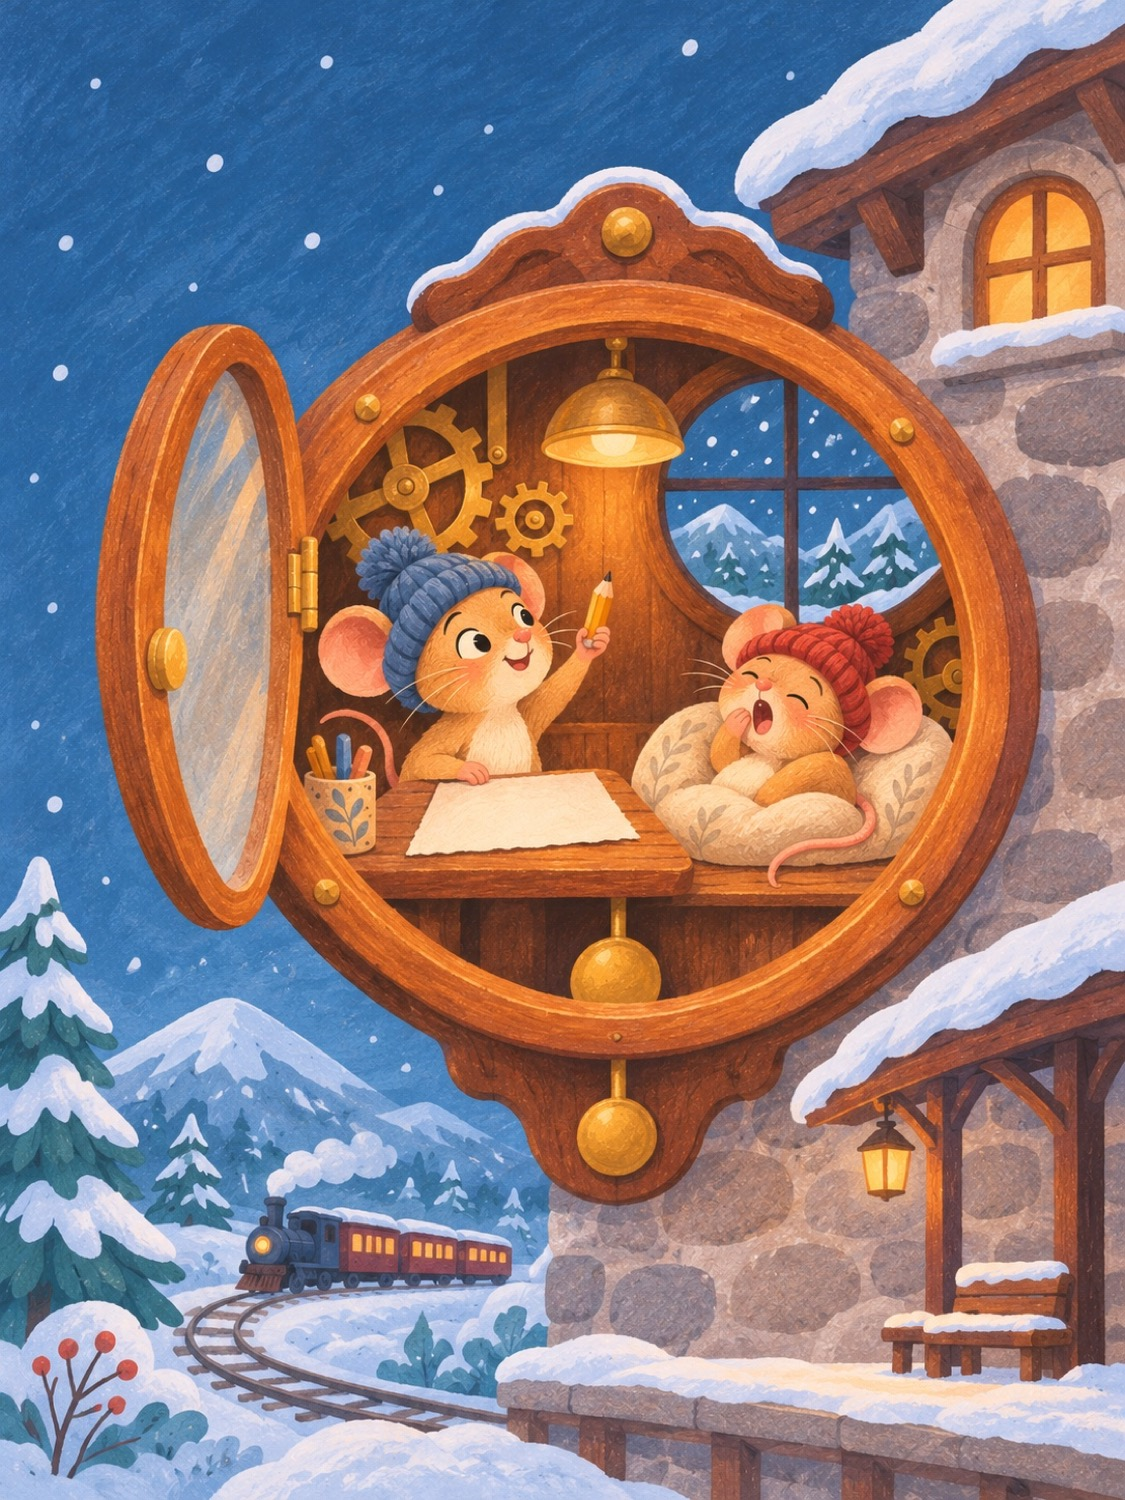
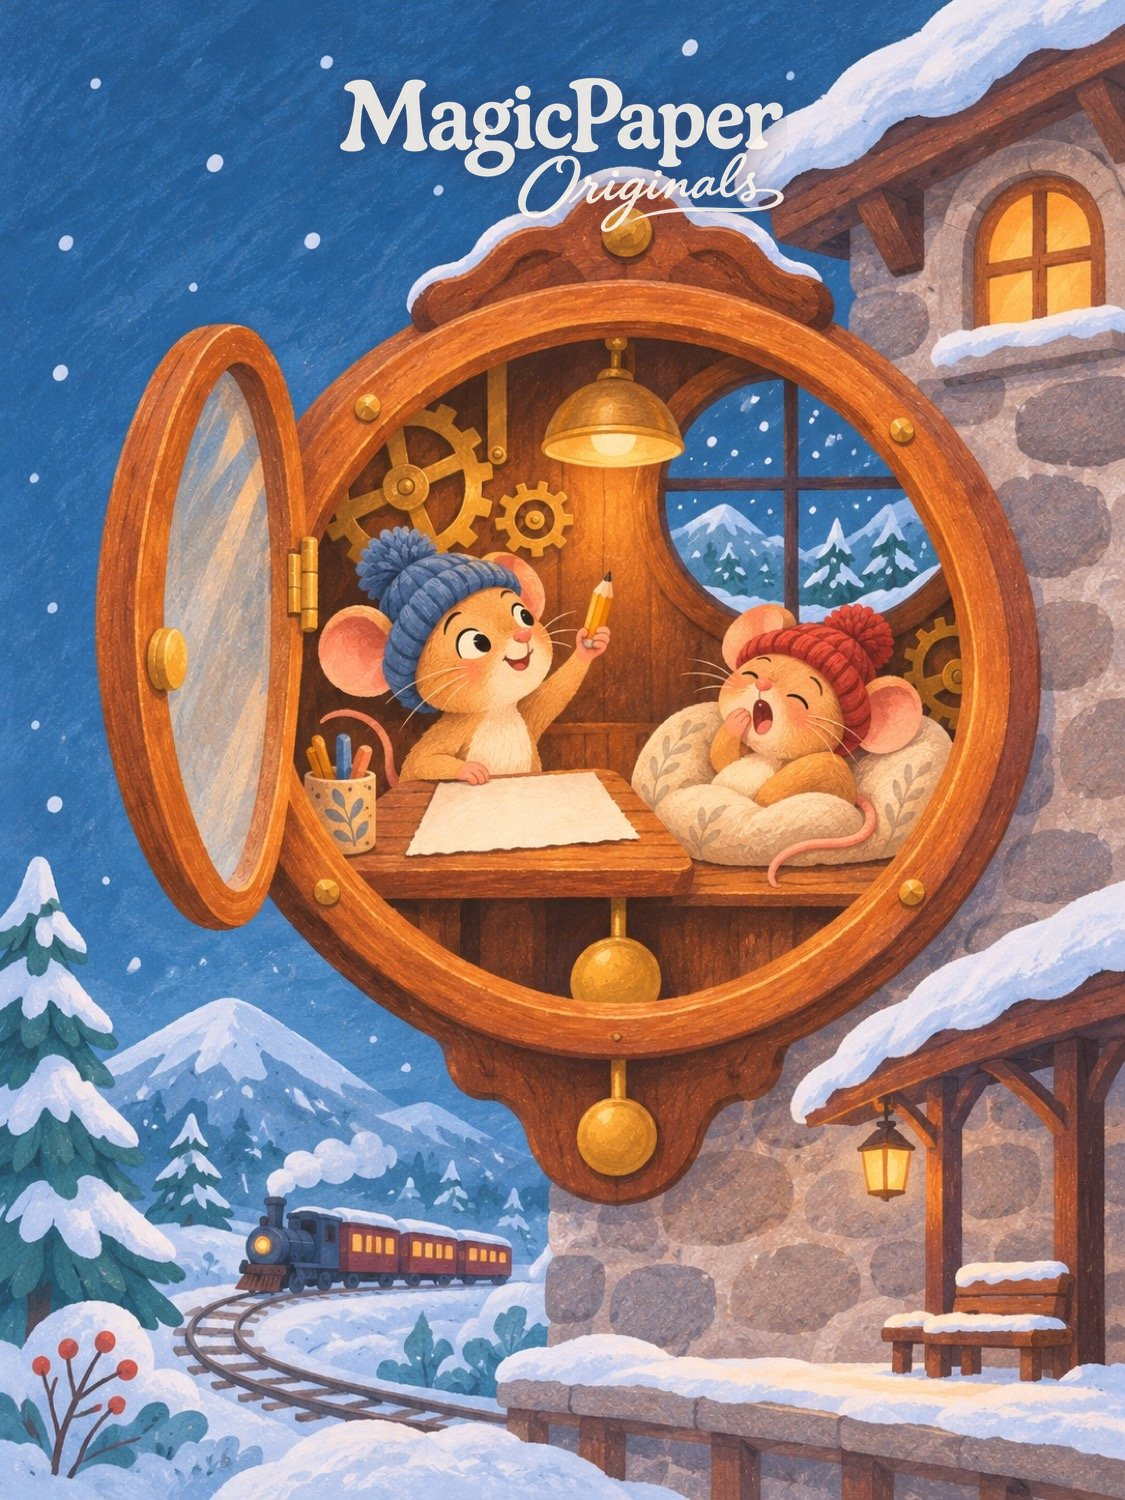
Birleştirme sonrası: yeni Saatin İçindeki Ninni kapağına Originals logosu, günlük

Changed region(s): [[0.3111, 0.0307, 0.7156, 0.1533]]

diff --git a/design-handoff/reference/DEMO_CHANGELOG.md b/design-handoff/reference/DEMO_CHANGELOG.md
@@ -133,6 +133,14 @@ Bu dosya, MagicPaper Kids demo canvas'ının hafızası. Kaynak koddaki CLAUDE.m
 
 ## Değişiklik günlüğü
 
+### 2026-11-21 · main, commit bu kayıtla · anlati-provenance, evren-7-yetkiler ve codex/design-system-catalog main'e birleşti
+- Birleşenler (Batuhan'ın isteğiyle, sırayla, `--no-ff`): `anlati-provenance` (71d4893: sayfa kaynak izi, Anlatı planı A0-A8, katmanlı sayfa resmi kararı, pilot çizim listesi), `evren-7-yetkiler` (7fc4231: aynı plan belgelerinin eski kopyaları), `codex/design-system-catalog` (bbbc522: yayımlanmış Original'lara sayfa çizimleri, incelenmiş çan görseli, görsel kaynak denetimi).
+- Çakışma çözümü: `ANLATI_PLANI.md`'de anlati-provenance'ın yeni sürümü kaldı (evren-7'deki A0/A1 öncesi hâli). codex dalı `c742ea7`'yi yama olarak almıştı; çakışan 20 dosyanın (StoryPageProvenance, 18 notice_anomaly şablonu, VisualMeaningTests, GORSEL_ANLAM_SOZLESMESI) codex sürümü `c742ea7` ile birebir aynıydı, bu yüzden anlati-provenance'ın ilerlemiş sürümü (`visualReview: "reviewed"`) kaldı. Günlükte iki tarafın kayıtları tarihe göre birleşti, hiçbiri silinmedi.
+- codex dalının yeni "Saatin İçindeki Ninni" kapağı logosuzdu; 19 Kasım kararına göre Originals logosu `stamp_originals_logo.py` ile basıldı (published + uygulama asset'i). "Originals" yazısı saatin karlı tepesine biraz değiyor, hale ile okunuyor.
+- Bilerek değişmeyen: paylaşılan checkout'taki `codex/design-system-catalog` dalının commit edilmemiş değişiklikleri (ReviewedDiscoveryArtBinder/Policy, StorySpotBinder ve testleri) birleşmeye girmedi; o oturumun işi.
+- Doğrulama: iPhone 16 için Debug derleme BUILD SUCCEEDED; StoryEngine `VisualMeaningTests` 5/0; ContentPublisher 32/0; `test_original_illustrations.py` 6/0; katalog derleyicisi yeniden çalıştı, çıktı değişmedi. Uygulama test paketi koşulmadı; birleşik hâl cihazda denenmedi.
+- Dosyalar: üç dalın değişiklikleri, `Content/Originals/published/saatin-icindeki-ninni/cover.jpg`, `MagicPaper/Assets.xcassets/Originals/original-saatin-icindeki-ninni.imageset`, bu günlük.
+
 ### 2026-11-21 · main, commit bu kayıtla · Kar Tepesi'ndeki Yeşil Işık stüdyo sesiyle yayında
 - Seslendirme: Batuhan'ın ElevenLabs kaydı (anlatıcı "Venera", 232 sn, tek MP3) dokuz sayfa dosyasına bölündü: `Content/Originals/published/kar-tepesindeki-yesil-isik/narration/page-01…09.m4a` (AAC 64 kbps mono, toplam ~1,9 MB). Anlatıcı sayfa arasında daha uzun durmadığı için sınırlar cümle cümle hece sayısı ve duraklarla eşleştirildi, sonra elle kontrol edildi. Kesimler (sn): 28,39 · 54,57 · 81,94 · 107,99 · 132,36 · 155,77 · 180,44 · 208,59. Başlık 1. sayfanın sesinin başında okunuyor. Sayfa başına süre/hece oranı ±%12 içinde. Kulakla dinlenmedi.
 - Onay: Batuhan'ın onayıyla `originals approve` çalıştı, taslak `published/`'a geçti (review.md git geçmişinde), `build_classics_catalog.py` masalı katalog ve kapak asset'iyle uygulamaya ekledi.
